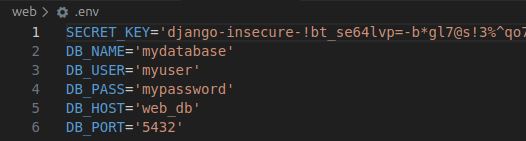
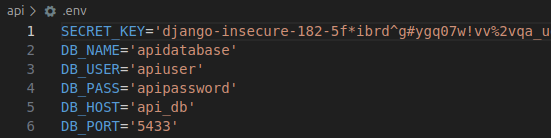
updated README to reflect changes back to one python project for the API

Changed region(s): [[0.0304, 0.3188, 0.4563, 0.9855], [0.0304, 0.1739, 1.0, 0.2899], [0.0, 0.029, 0.2129, 0.1449]]

diff --git a/README.md b/README.md
@@ -11,29 +11,21 @@ The API provides extensions to these features through user check-ins, quests, ti
 
 Ultimately, through enhanced interaction, this project seeks to incentivise attending these events and fostering more experiences between dog and owner.
 
-The project is comrised of three main parts:
+The project is comprised of two main parts:  
 
 ### 1. An __API tool__ built on Django Rest Framework
-The main focus of the project. A dedicated API tool which provides extensibility to the main mocked Woofya application described below. 
+The main focus of the project. A dedicated API tool which provides extensibility to the main Woofya application. 
 
 API users are extensions of a Woofya user and only store the user's username along with the gamification aspects provided by the API including points, quests, check-ins by the user, titles, badges, etc.
 
-After users login via the mock woofya site, an API user is created if the username doesn't exist within API database. Currently this is done at the mock homepage, but if used by the real main application, will need to be either integrated into the main application front end somewhere or possbily ran as a batch to connect the database of current users.  
+After entering a username, an API user is created if the username doesn't exist within API database. Currently this is done at the homepage, but if used by the real main application, will need to be either integrated into the main application front end somewhere or possbily ran as a batch to connect the database of current users.  
 
-Users can then access their gamification profile features. The API endpoints only require the username from the main application backend and an application-wide token.
-
-### 2. A __Web backend__ mock Woofya built to simulate the real application, also delivered through a Django REST application.
-This is the part of the project simulating the main Woofya application. For this project's purposes it should contain the main application users, locations, events - any relevant features of the main Woofya application the API needs to interact with.  
-
-Implementations in the web backend need only be minimal. Users only need credentials, for instance. And views for locations to check in to only need to show the API functionality. As such, there is no need to worry about making forms in the front end for creating, updating or deleting these entities. Posting directly to the endpoint, using the admin dashboard, or using some database initialiser is suitable enough.  
-
-Integration into the main application in production would remove the need for this backend, replacing the endpoints with those used by Woofya.
-
+Users can then access their gamification profile features. The API endpoints only require the username from the main application backend and an application-wide token.  
 
 ### 3. A __Reactjs frontend__ for delivering the content. 
 The frontend exists to primarily display the user gamification end points and their interactions with the main application. For instance, users will see and interact with their points, have a collection of titles, locations visited, quests active and completed, and have access to a marketplace for spending points.  
 
-Views simulating minimal versions of main application features are necessary for this project. E.g. Locations to check-in to. However, In the case of integration into the main application, these views would no longer be required, or could possibly be repurposed testing.
+Views simulating minimal versions of main application features may be necessary for this project. E.g. Locations to check-in to. However, In the case of integration into the main application, these views would no longer be required, or could possibly be repurposed testing.
 
 
 ## Table of Contents
@@ -41,25 +33,23 @@ Views simulating minimal versions of main application features are necessary for
 - [gamification-tool](#gamification-tool)
   - [Overview of the Project](#overview-of-the-project)
     - [1. An __API tool__ built on Django Rest Framework](#1-an-api-tool-built-on-django-rest-framework)
-    - [2. A __Web backend__ mock Woofya built to simulate the real application, also delivered through a Django REST application.](#2-a-web-backend-mock-woofya-built-to-simulate-the-real-application-also-delivered-through-a-django-rest-application)
     - [3. A __Reactjs frontend__ for delivering the content.](#3-a-reactjs-frontend-for-delivering-the-content)
   - [Table of Contents](#table-of-contents)
   - [How to run](#how-to-run)
     - [Project setup](#project-setup)
     - [Setting up the development environment](#setting-up-the-development-environment)
     - [Secrets and environment variables](#secrets-and-environment-variables)
-      - [Web and API .env files](#web-and-api-env-files)
+      - [API .env files](#api-env-files)
       - [Frontend .env file](#frontend-env-file)
     - [Building and running the containers](#building-and-running-the-containers)
     - [Stop the container](#stop-the-container)
-  - [Setting up and accessing Web backend and API](#setting-up-and-accessing-web-backend-and-api)
+  - [Setting up and accessing API backend](#setting-up-and-accessing-api-backend)
     - [Script for API testing](#script-for-api-testing)
     - [Test base endpoints](#test-base-endpoints)
     - [Admin access](#admin-access)
     - [User access](#user-access)
     - [Postman](#postman)
       - [For the API](#for-the-api)
-      - [For the Web backend](#for-the-web-backend)
   - [Access react webpage](#access-react-webpage)
     - [Authorization](#authorization)
   - [Extra command line actions](#extra-command-line-actions)
@@ -97,19 +87,19 @@ So how to go about setting up the environment...
 
     - This is either done in the root directory i.e. `/gamification-tool` via command line or the easier way through VS Code - [documentation here](https://code.visualstudio.com/docs/python/environments)
 
-3. With the .venv active we can run the following from the `/web` and `/api` directories to install Django and the other required packages  
+3. With the .venv active we can run the following from the `/api` directory to install Django and the other required packages  
 `$ python pip install pip install --no-cache-dir -r requirements.txt` 
 
-    - Later, when adding new packages to the web backend or api use `$ pip freeze > requirements.txt` from the correct directory to update the file  
+    - Later, when adding new packages to the api use `$ pip freeze > requirements.txt` from the correct directory to update the file  
 
 
-4. Build the frontend application locally. This requires nodejs/npm.  
+1. Build the frontend application locally. This requires nodejs/npm.  
 From the `/frontend` directory run `npm install` to build and `npm start` if you want to run the front end as per the `package.json` file instructions.
 
 With this set up, we should be able to begin developing locally. But we can't run everything yet.
 
 ### Secrets and environment variables
-Each application frontend, web and api have a `.env` file associated with it. It contains the environment variables and secrets to be used during development. They should be in each separate application's root folder (frontend, web, api).  
+Each application frontend and api have a `.env` file associated with them. They contain the environment variables and secrets to be used during development. They should be in each separate application's root folder.  
 
 These files are in `.gitignore` so they aren't version controlled meaning we each need to make them separately at the moment.
 
@@ -118,19 +108,18 @@ Ideally they should be ignored by docker also, but that is more important in the
 The .env files excluded from git in the project structure:    
 ![alt text](readme-imgs/proj-structure-1.png)
 
-#### Web and API .env files
+#### API .env files
 We need to make our own .env files.  
 
 The pip package python-dotenv should already be installed from the `requirements.txt` earlier. If not, install it.
 
-Here's the example for the Django environment variables in the web backend.
+Here's the example for the Django environment variables in the backend.
 ![alt text](readme-imgs/env-1.png)  
-The Django Secret key is added to .env. Check the commented SECRET_KEY variable in settings.py for both API and web to get the values.
+
+The Django Secret key is added to .env. Check the commented SECRET_KEY variable in settings.py to get the values.
 
 At the moment the database environment variables can be found in `docker-compose.yml` in the project root so just copy them over.  
-![alt text](readme-imgs/env-2.png) 
-
-Do the same for the API .env
+![alt text](readme-imgs/env-2.png)  
 
 #### Frontend .env file
 The React .env file is handled by the react-scripts library.  
@@ -154,12 +143,10 @@ The above should only be done in a dev environment when there is no data to be l
 1. Spin up containers:  
 `$ docker-compose up --build`
 
-This builds and runs five containers:
+This builds and runs three containers:
 1. frontend
-2. web
-3. api
-4. web_db
-5. api_db 
+2. api
+3. api_db 
 
 Note: These containers can be referenced in terminal by their name.
 
@@ -172,7 +159,7 @@ Also note: Depending on the version of docker compose installation, the general 
 `$ docker-compose down`  
 or CTRL+c if the instance is attached to the terminal.
 
-## Setting up and accessing Web backend and API
+## Setting up and accessing API backend
 
 Every clean build of the containers will require migrations and creation of a super user.
 
@@ -180,11 +167,6 @@ For the API:
 1. `$ docker-compose exec api python manage.py makemigrations`
 2. `$ docker-compose exec api python manage.py migrate`  
 3. `$ docker-compose exec api python manage.py createsuperuser` and follow the prompts to make an admin  
-
-For the web backend  
-1. `$ docker-compose exec web python manage.py makemigrations` 
-2. `$ docker-compose exec web python manage.py migrate`  
-3. `$ docker-compose exec web python manage.py createsuperuser` and follow the prompts again
 
 Subsequent changes to the models will require migrations to update the database.
 
@@ -202,16 +184,15 @@ Another script to create points log(if user have no log):
 
 With the docker containers running try the endpoints in browser:
 
-- Web: http://localhost:8080/ - should render but doesn't have a registered endpoint
 - API: http://localhost:8000/ - should render but doesn't have a registered endpoint
 - Frontend - http://localhost:3000/ - should display login page
 
 ### Admin access
 
-Admin endpoints can be reached at http://localhost:8000/admin/ and http://localhost:8080/admin/ respectively
+Admin endpoints can be reached at http://localhost:8000/admin/
 
 ### User access
-The endpoints are accessible by users but not authorized from the browser due to the JWT authorization in the web backend application (localhost:8080) and the API Key in the API application (localhost:8000).  
+The endpoints are accessible by users but not authorized from the browser due to the API Key needed in request headers in the API application (localhost:8000).  
 
 ### Postman
 So that leaves Postman for testing endpoints. 
@@ -228,26 +209,15 @@ This is generated in the admin dashboard as below.
 And can be saved only once at the time of creation.
 ![alt text](readme-imgs/admin-2.png)  
 
-#### For the Web backend  
-Users are authenticated with JWT tokens.
-The post token endpoint generates tokens for a user given their username and password in the request body.  
-
-![alt text](readme-imgs/api-2.png)  
-
-All secured endpoints need to include the bearer token authorization using the access token.
-![alt text](readme-imgs/api-3.png)  
-
 ## Access react webpage
 Our application frontend can be accessed from http://localhost:3000/
 
 ### Authorization
-Web backend users simulating the real application  log in with their credentials. So you may need to make a user in http://localhost:8080/admin/
 
-Axios handles the access tokens, and refresh tokens of users through an interceptor after login.
+API users are created or retrieved after entering username in the 'login' page.  
 
 The API Key needs to be included in headers for any authorized API request.
-
-This is done through the use of reactscripts native .env file for secrets.
+This is done through the use of reactscripts native .env file for secrets.  
 
 ## Extra command line actions
 
@@ -265,13 +235,13 @@ Once in:
 
 ### How to open a python shell within the docker container:
 
-1. Run bash inside the web container:  
-`$docker-compose exec web sh`
+1. Run bash inside the api container:  
+`$docker-compose exec api sh`
 
 2. Open python shell:  
 `$python manage.py shell`  
 - Or in a one liner:  
-`$ docker-compose exec web python manage.py shell`
+`$ docker-compose exec api python manage.py shell`
 
 3. Import class and models from modules, save to db, etc.:
 ```
